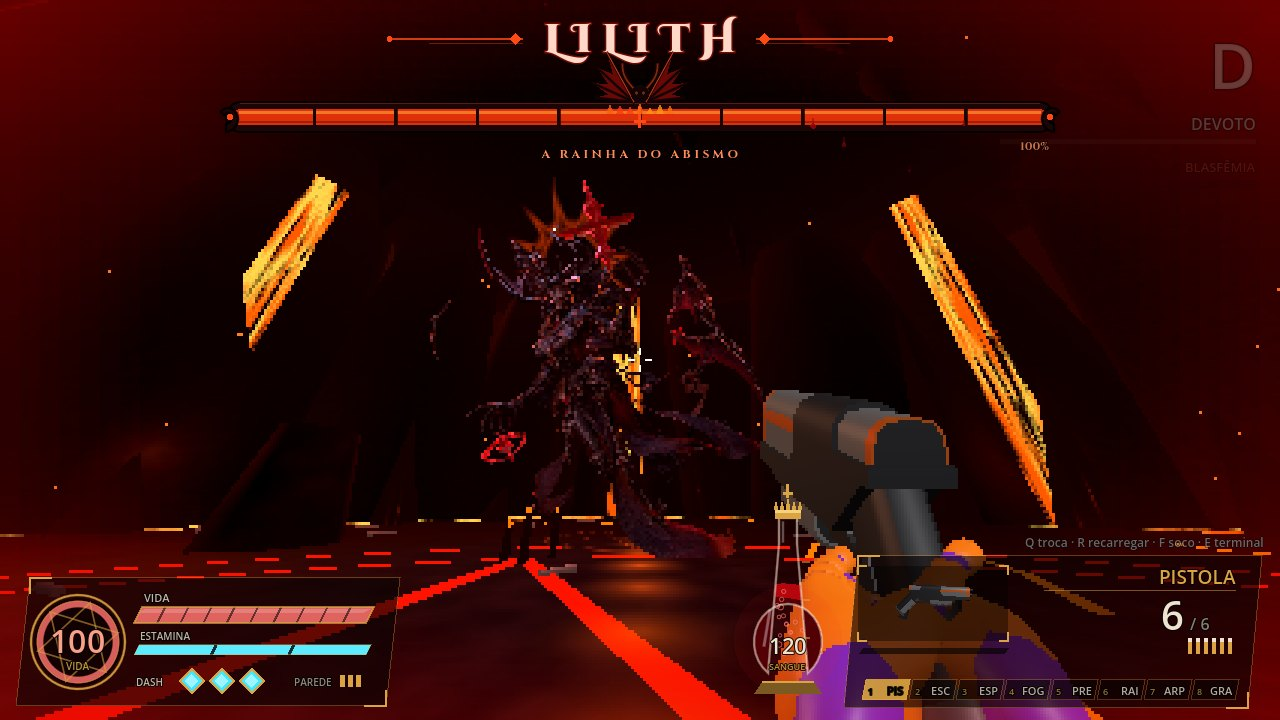
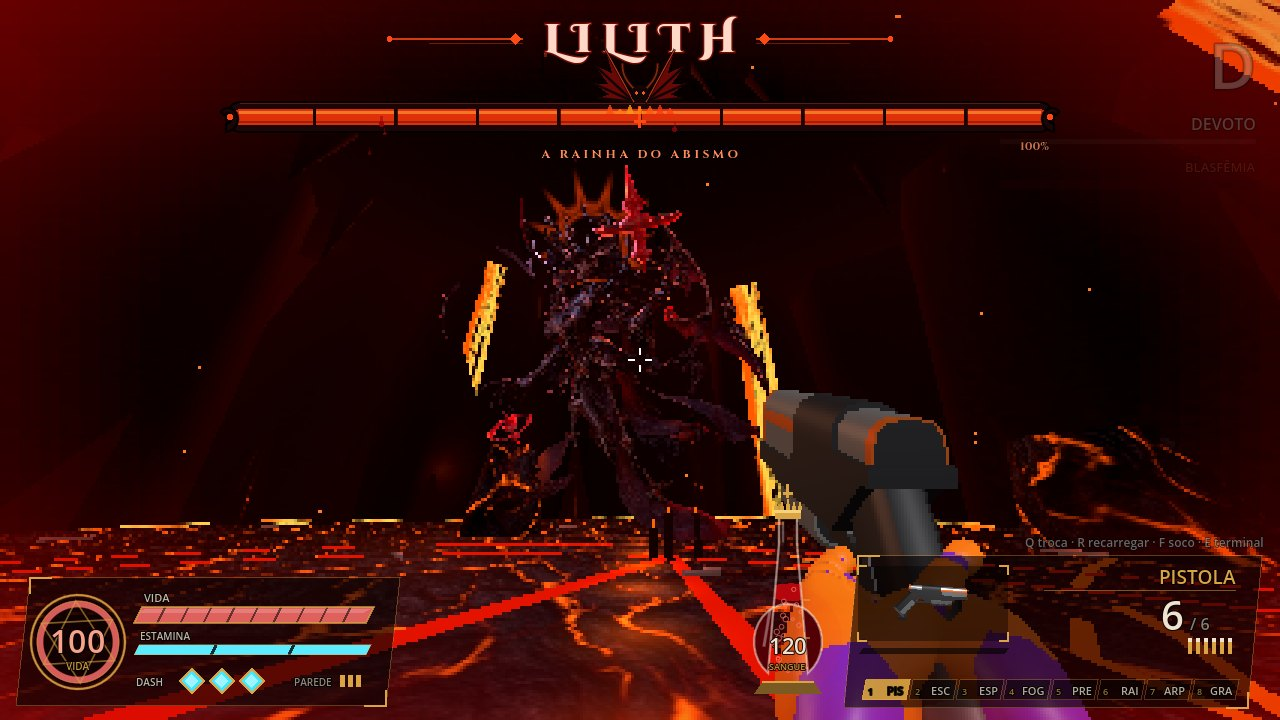
Arena da Lilith: chão com textura de rocha de lava e rachaduras brilhando
Claude-Session: https://claude.ai/code/session_01XQta9wH9Q7MkitcZydzUWR

diff --git a/CHANGELOG.md b/CHANGELOG.md
@@ -1,5 +1,10 @@
 # Histórico de mudanças
 
+## Chão de lava na arena da Lilith
+
+- O chão da ilha, os rochedos e a base do trono usam a textura de rocha de lava enviada pelo autor (tornada contínua para repetir sem emendas).
+- Um shader próprio faz as rachaduras vermelhas da textura brilharem e pulsarem; no Inferno elas ficam muito mais fortes.
+
 ## Nova chefe: Lilith, a Rainha do Abismo
 
 - Modelo enviado pelo autor separado em partes (2 asas, 2 braços, cabeça) e animado por código: asas de morcego batendo,
